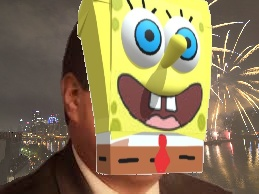
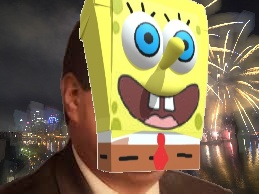
fixed kernel

diff --git a/bokeh_and_overlay.py b/bokeh_and_overlay.py
@@ -9,7 +9,7 @@ import cv2
 import numpy as np
 import matplotlib.pyplot as plt
 
-def bokeh_bg(face_path, icon_path, background_path, icon_mask_path=os.path.abspath("Output/SeparateIcon/test2.jpeg"), output_path="test"):
+def bokeh_bg(face_path, icon_path, background_path, bokeh_selector=1, bokeh_effect="star", icon_mask_path=os.path.abspath("Output/SeparateIcon/test2.jpeg"), output_path="test"):
     face = cv2.imread(face_path)
     plt.imshow(cv2.cvtColor(face, cv2.COLOR_BGR2RGB))
     plt.title("Face")
@@ -53,7 +53,19 @@ def bokeh_bg(face_path, icon_path, background_path, icon_mask_path=os.path.abspa
     plt.title("Masked Icon")
     plt.show()
 
-    background_with_bokeh = bokeh.bokeh_blur(background, icon_mask, cv2.cvtColor(background, cv2.COLOR_BGR2GRAY))
+    if bokeh_selector == 1:
+        kernel_name = bokeh_effect
+        kernel_file = f"Input/Effect/{kernel_name}.png"
+        kernel = np.float32(cv2.imread(kernel_file))
+    else:
+        target_height, target_width = face.shape[:2]
+        resized_icon = cv2.resize(icon_mask, (int(target_height*.10), int(target_width*0.10)))
+        kernel = np.float32(resized_icon)
+        plt.imshow(resized_icon)
+        plt.title("Resized Icon (for Bokeh Effect)")
+        plt.show()
+        
+    background_with_bokeh = bokeh.bokeh_blur(background, kernel, cv2.cvtColor(background, cv2.COLOR_BGR2GRAY))
     plt.imshow(cv2.cvtColor(background_with_bokeh, cv2.COLOR_BGR2RGB))
     plt.title("Bokeh Background")
     plt.show()
@@ -79,7 +91,7 @@ face_path = os.path.abspath("Input/Face/HL-005.jpeg")
 icon_path = os.path.abspath("Input/Icon/spongebob.jpeg")
 background_path = os.path.abspath("Input/Background/fireworks.jpg")
 icon_mask = icon_segmentation.segment_iconv2(icon_path)
-bokeh_background = bokeh_bg(face_path, icon_path, background_path)
+bokeh_background = bokeh_bg(face_path, icon_path, background_path, bokeh_selector=0)
 result = img_overlayv2.img_overlay(bokeh_background, icon_path)
 # result = compilation(face_path, icon_path, background_path)
 

diff --git a/img_overlay/img_overlayv2.py b/img_overlay/img_overlayv2.py
@@ -65,7 +65,7 @@ def img_overlay(image, icon_path, icon_mask_path=os.path.abspath("Output/Separat
                 np.where(binary_mask_resized > 0, overlay_resized[:, :, c], img[overlay_y:overlay_y + overlay_resized.shape[0], overlay_x:overlay_x + overlay_resized.shape[1], c])
 
     # Save the final image
-    plt.imshow(img)
+    plt.imshow(cv2.cvtColor(img, cv2.COLOR_BGR2RGB))
     plt.title("Image Overlay")
     plt.show()
     output_path = os.path.abspath(f"Output/Overlay/{output_path}.jpeg")
